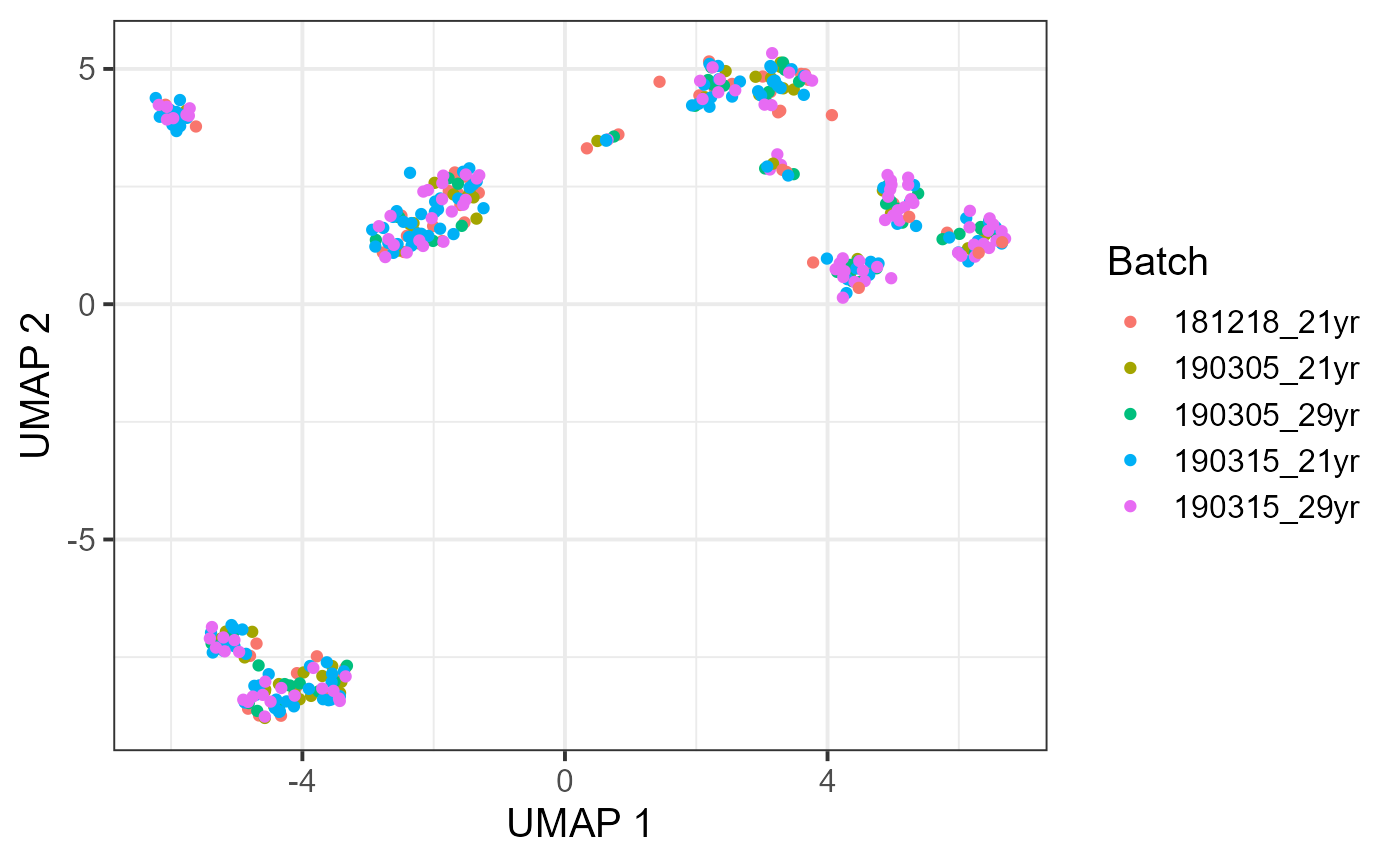
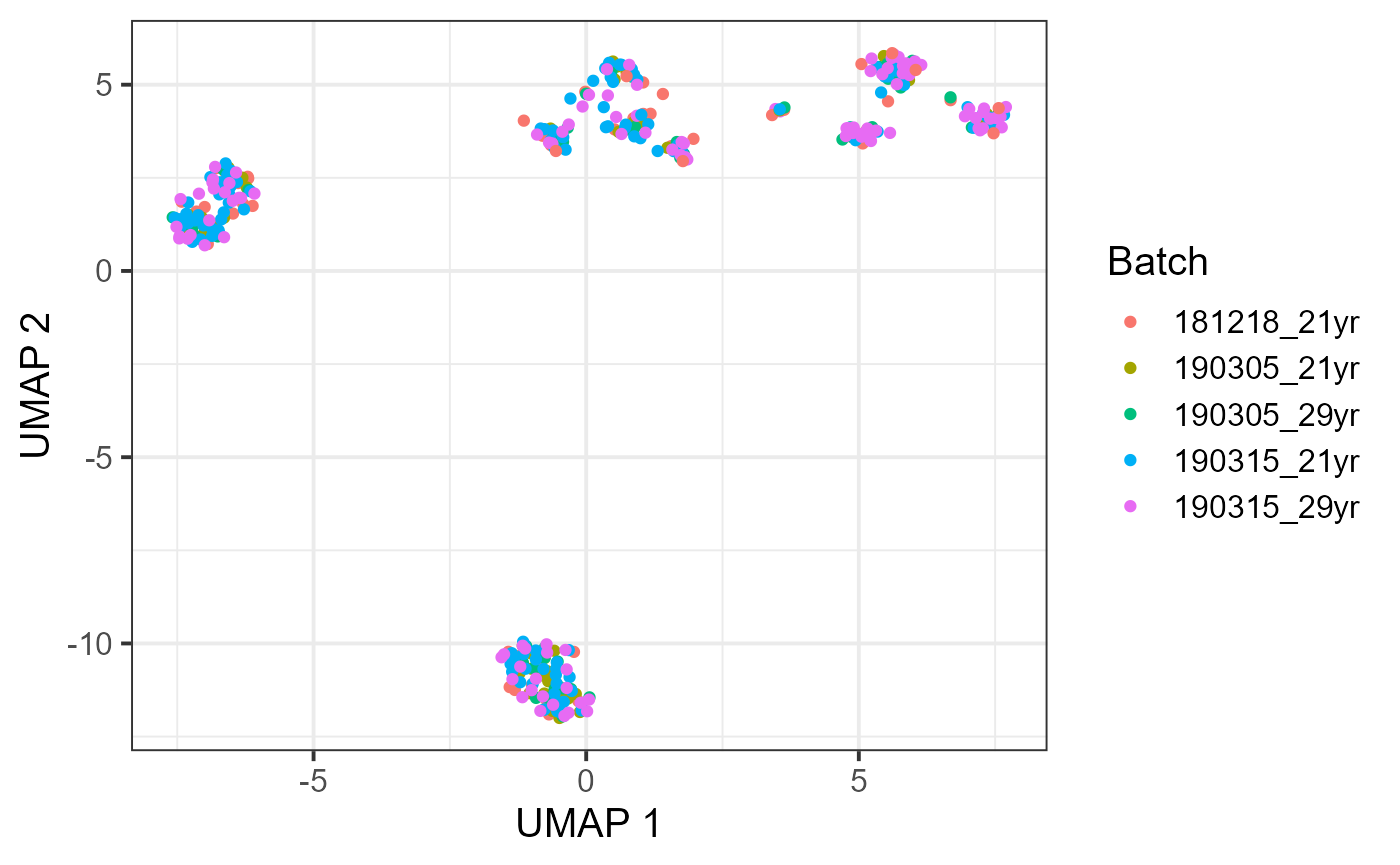
Add files via upload

diff --git a/docs/articles/BandNorm-tutorial.html b/docs/articles/BandNorm-tutorial.html
@@ -96,9 +96,7 @@
 <a href="#introduction" class="anchor"></a>Introduction</h2>
 <p>The advent of single-cell sequencing technologies in profiling 3D genome organization led to development of single-cell high-throughput chromatin conformation (scHi-C) assays. Data from these assays enhance our ability to study dynamic chromatin architecture and the impact of spatial genome interactions on cell regulation at an unprecedented resolution. At the individual cell resolution, heterogeneity driven by the stochastic nature of chromatin fiber, various nuclear processes, and unwanted variation due to sequencing depths and batch effects poses major analytical challenges for inferring single cell-level 3D genome organizations.</p>
 <p>To explicitly capture chromatin conformation features and distinguish cells based on their 3D genome organizations, we develop a simple and fast band normalization approach, <code>BandNorm</code>. <code>BandNorm</code> first removes genomic distance bias within a cell, and sequencing depth normalizes between cells. Consequently, <code>BandNorm</code> adds back a common band-dependent contact decay profile for the contact matrices across cells. The former step is achieved by dividing the interaction frequencies of each band within a cell with the cell’s band mean. The latter step is implemented by multiplying each scaled band by the average band mean across cells.</p>
-<div class="figure">
-<img src="../figures/bandnorm_intro.png" alt=""><p class="caption">The introduction for BandNorm</p>
-</div>
+<p><img src="../figures/bandnorm_intro.png"></p>
 </div>
 <div id="installation" class="section level2">
 <h2 class="hasAnchor">
@@ -274,108 +272,107 @@ chr1    2000000 chr1    4000000 2</code></pre>
 <span class="co">#&gt; Harmony 7/10</span>
 <span class="co">#&gt; Harmony 8/10</span>
 <span class="co">#&gt; Harmony 9/10</span>
-<span class="co">#&gt; Harmony 10/10</span>
-<span class="co">#&gt; Harmony converged after 10 iterations</span>
+<span class="co">#&gt; Harmony converged after 9 iterations</span>
 <span class="va">embedding</span><span class="op">[</span><span class="fl">1</span><span class="op">:</span><span class="fl">10</span>, <span class="op">]</span>
-<span class="co">#&gt;                  PC1       PC2         PC3        PC4        PC5        PC6</span>
-<span class="co">#&gt; Astro_1  -19.7082464 28.811616 -23.8949498  35.150585 -34.167979 -16.093015</span>
-<span class="co">#&gt; Astro_2   -7.3267574 46.272562   4.4755768  16.842213 -13.951679  -2.484006</span>
-<span class="co">#&gt; Astro_3   -0.3239463  8.682601  -1.2777052   4.923611  11.560447 -10.780792</span>
-<span class="co">#&gt; Astro_4   -8.7088714 26.736962 -26.4223117  11.835827  -9.729075 -15.327933</span>
-<span class="co">#&gt; Astro_5   11.5349369 17.157246 -20.4018298  14.351155 -26.069305 -25.380617</span>
-<span class="co">#&gt; Astro_6  -21.3484236 13.865803 -19.3961148  -0.153196  -3.861859   9.290331</span>
-<span class="co">#&gt; Astro_7    6.6332584 47.349138 -71.6731422 -65.113668  -8.434199  -9.947602</span>
-<span class="co">#&gt; Astro_8   -1.0163779 44.994779  -0.9627146  11.857249 -10.516306  12.779721</span>
-<span class="co">#&gt; Astro_9   -4.6578099 24.170456 -16.3786659  19.835603 -18.212833  -9.650617</span>
-<span class="co">#&gt; Astro_10 -16.8051802  4.346302 -12.5563555   3.848788 -24.587289  -8.691638</span>
-<span class="co">#&gt;                 PC7        PC8        PC9        PC10       PC11       PC12</span>
-<span class="co">#&gt; Astro_1    3.971630 -45.824813  35.491455  -4.9164623 25.6828846 -26.705808</span>
-<span class="co">#&gt; Astro_2  -35.064483 -39.457115 -16.017228  -5.7350189 19.1075119 -34.027850</span>
-<span class="co">#&gt; Astro_3  -16.555027  24.815195  -3.795087   6.0263446  2.0859114  -7.651319</span>
-<span class="co">#&gt; Astro_4   11.243274   6.373361   1.860960 -12.2390168 -2.6482597 -16.277114</span>
-<span class="co">#&gt; Astro_5   -9.038704 -12.613895  26.538324   5.9862251 92.8851315 -48.960787</span>
-<span class="co">#&gt; Astro_6   -8.845734  -4.565472   2.119168   2.4071755  8.5886062 -45.276414</span>
-<span class="co">#&gt; Astro_7   -2.601860  -5.739887  -1.728622  -5.6909678 -0.1082682 -14.329732</span>
-<span class="co">#&gt; Astro_8  -20.371635  13.336647  -3.368872  -0.7644421 26.3609992  -1.502431</span>
-<span class="co">#&gt; Astro_9  -17.140215  -4.368754  14.319022 -11.4978225 45.1122917 -86.255199</span>
-<span class="co">#&gt; Astro_10  14.826843  -4.608527  33.284809 -15.6667030 14.4296093 -31.341040</span>
-<span class="co">#&gt;                PC13         PC14        PC15       PC16        PC17        PC18</span>
-<span class="co">#&gt; Astro_1   33.267260 -25.17568128  19.4643960 -19.799950  44.0249134 -47.0121746</span>
-<span class="co">#&gt; Astro_2    0.933620   1.59852290 -13.0564159  -2.688189   6.2808227  -3.4470677</span>
-<span class="co">#&gt; Astro_3   11.216990   0.03414993  -6.0808427   9.230157   8.8755025  -0.6561208</span>
-<span class="co">#&gt; Astro_4   -8.627166   4.95422553 -22.4326127  -4.734458  -2.7430644   3.0204413</span>
-<span class="co">#&gt; Astro_5   21.635421  48.97062554  -0.3859812  19.714740   0.7697081  24.0448713</span>
-<span class="co">#&gt; Astro_6   29.148818  -1.55913277   5.3884866 -16.337634   2.7421274 -12.9429822</span>
-<span class="co">#&gt; Astro_7   19.872486 -16.58236610 -20.5080704   3.879476 -16.6457480 -17.5526323</span>
-<span class="co">#&gt; Astro_8   -3.787355 -47.98449497  -4.2642034 -14.888026  -6.4390501   3.4524723</span>
-<span class="co">#&gt; Astro_9  -31.842175 -22.70490753  28.8000539  33.451974   9.3860604 -34.5335164</span>
-<span class="co">#&gt; Astro_10  19.293212 -24.95818732 -10.8435122   1.124084  21.6804394 -25.6096973</span>
-<span class="co">#&gt;                PC19       PC20        PC21       PC22       PC23       PC24</span>
-<span class="co">#&gt; Astro_1   25.569480  20.680785 -154.874315  58.762475   5.682463 -28.422498</span>
-<span class="co">#&gt; Astro_2    7.291372   4.825205   -7.973925  -0.998890  -9.769785  34.216144</span>
-<span class="co">#&gt; Astro_3   18.965097   6.531660   10.037759  -2.129291 -16.481520  15.518390</span>
-<span class="co">#&gt; Astro_4  -15.883141  13.301597   18.833884 -15.862836 -25.588426  -6.900209</span>
-<span class="co">#&gt; Astro_5  112.596791  20.670186  103.386677   5.009961 141.164295 -92.156122</span>
-<span class="co">#&gt; Astro_6  -21.535031  -3.230735    3.795656  49.127652  -6.068639   9.357072</span>
-<span class="co">#&gt; Astro_7   -1.443606  13.896255  -25.314012  15.063107  -8.786138   2.371008</span>
-<span class="co">#&gt; Astro_8    5.967188 -19.764046  -42.337378 -27.961891 -32.674232  34.287198</span>
-<span class="co">#&gt; Astro_9  -78.827472 -46.470264    2.896760 -50.534104  64.648074  25.632585</span>
-<span class="co">#&gt; Astro_10  -5.149690  -7.271300   -2.123971 -19.580544  -2.290375   0.176057</span>
-<span class="co">#&gt;                 PC25        PC26         PC27         PC28       PC29</span>
-<span class="co">#&gt; Astro_1   12.1935111  -79.343250  18.59919747 -135.9605035  17.238159</span>
-<span class="co">#&gt; Astro_2  -11.9290241   26.261261  -0.05216965   -9.3614280   1.157036</span>
-<span class="co">#&gt; Astro_3    4.3691953   19.747991 -29.12762396   26.9947170  43.825815</span>
-<span class="co">#&gt; Astro_4    0.8225943    9.486687  23.09186494   25.2270435   8.684373</span>
-<span class="co">#&gt; Astro_5   45.3509199   60.317126 -63.58004701   84.7414570 -54.101696</span>
-<span class="co">#&gt; Astro_6    5.8265579   -2.823348  33.93480500  -13.3936443  24.188855</span>
-<span class="co">#&gt; Astro_7   34.3245959    4.499158  21.00952192    9.7421743   8.629582</span>
-<span class="co">#&gt; Astro_8   14.1380930   -2.104559 -37.84794820   24.8639094  12.425118</span>
-<span class="co">#&gt; Astro_9    9.3413389 -163.316411 -10.63670051   71.9553682 -11.118146</span>
-<span class="co">#&gt; Astro_10 -40.9998584   -4.359693  20.58503209   -0.9146004  12.996311</span>
-<span class="co">#&gt;                PC30       PC31       PC32       PC33       PC34        PC35</span>
-<span class="co">#&gt; Astro_1  -28.364969   2.630491 -60.837972  22.722263 -25.021677  56.6723521</span>
-<span class="co">#&gt; Astro_2   16.446365  -6.876204   1.341228  10.067612  14.936994  -7.5624446</span>
-<span class="co">#&gt; Astro_3   14.317662  -2.799851  -4.811118 -71.345234  -3.606042 -11.2324967</span>
-<span class="co">#&gt; Astro_4   -6.012161 -27.119416  16.934662  -6.771020  11.673170   8.4588643</span>
-<span class="co">#&gt; Astro_5   20.117123 -22.021135   1.627635   2.515616 -53.830017  62.8973717</span>
-<span class="co">#&gt; Astro_6    1.596179  -4.174825  43.462861  11.241279  -8.308725   8.6126161</span>
-<span class="co">#&gt; Astro_7  -40.262873 -42.746742  -5.571561 -46.634139  20.029894 -50.6331918</span>
-<span class="co">#&gt; Astro_8  -39.446797  19.105656   4.413553  49.473658 -24.435097  60.3847720</span>
-<span class="co">#&gt; Astro_9   -6.486986  62.271737 -23.502344   1.848401 -16.519224 -55.9514609</span>
-<span class="co">#&gt; Astro_10  -1.180698 -39.810292  41.042705 -32.305885  19.570680   0.1739368</span>
-<span class="co">#&gt;                 PC36       PC37       PC38       PC39       PC40       PC41</span>
-<span class="co">#&gt; Astro_1  -74.1424197  14.923780  -17.69893  50.095454  -6.247827  -4.736382</span>
-<span class="co">#&gt; Astro_2   13.1454219   3.984598   19.26058  12.311948  -1.830040 -11.536834</span>
-<span class="co">#&gt; Astro_3    0.6412143 -17.820441   55.59081  -5.967786 -25.415644   8.214722</span>
-<span class="co">#&gt; Astro_4   14.9913135 -28.381364  -29.57139  35.912263   4.680885 -44.278178</span>
-<span class="co">#&gt; Astro_5   27.4239359  -8.475901  -38.67301  22.964764 -43.573559  75.059885</span>
-<span class="co">#&gt; Astro_6    8.7730816 -16.719097   38.66338  39.939968  37.769685  -3.573403</span>
-<span class="co">#&gt; Astro_7    4.7352076 -10.671704   37.09157 -32.083872   3.914934  22.502308</span>
-<span class="co">#&gt; Astro_8   30.4848800  33.005323 -117.29667  12.649075 -15.670954   2.116625</span>
-<span class="co">#&gt; Astro_9   -9.5644615   5.636209   64.13661 -65.415749  22.857269 -10.927915</span>
-<span class="co">#&gt; Astro_10  12.2812031  11.442395  -23.60050 -54.243049 -67.187197 -26.279287</span>
-<span class="co">#&gt;                PC42        PC43       PC44       PC45        PC46       PC47</span>
-<span class="co">#&gt; Astro_1    5.679983  -3.6159279 -18.873884  31.027150  -0.3648084 -28.501443</span>
-<span class="co">#&gt; Astro_2   21.751747  35.1477764   1.064156 -12.516591 -26.1315392  -5.250772</span>
-<span class="co">#&gt; Astro_3    3.292416   0.7089085  32.031181  35.717836   7.0587053  50.221097</span>
-<span class="co">#&gt; Astro_4  -18.303450  30.4140343  -4.819627  12.679055  45.6234534  44.376601</span>
-<span class="co">#&gt; Astro_5    9.317038 -18.1368048   1.956061 -14.056205 -12.9302934 -51.293981</span>
-<span class="co">#&gt; Astro_6   29.758175 -33.7533853   4.429936 -52.924096  -2.2852806 -26.187753</span>
-<span class="co">#&gt; Astro_7  -35.792229 -10.4774835  -8.064994  -1.171811 -65.6235758  -5.489606</span>
-<span class="co">#&gt; Astro_8  -26.454784  50.0747148  28.412574 -55.906298  25.5403307  42.912852</span>
-<span class="co">#&gt; Astro_9   15.832520 -21.7671366 -10.613418  30.016549  31.0852055  36.249807</span>
-<span class="co">#&gt; Astro_10  20.944158  31.9308996  12.987480  13.190013 -14.8923618 -32.437163</span>
-<span class="co">#&gt;                PC48       PC49        PC50</span>
-<span class="co">#&gt; Astro_1    7.531487  31.487318 -24.3067588</span>
-<span class="co">#&gt; Astro_2   -4.489506 -25.912060  19.9586798</span>
-<span class="co">#&gt; Astro_3   74.976222 -10.861318   0.3823273</span>
-<span class="co">#&gt; Astro_4   -5.838995  35.383907  40.2005409</span>
-<span class="co">#&gt; Astro_5   -5.210229 -12.862788  -1.3742454</span>
-<span class="co">#&gt; Astro_6   13.801770 -10.776746  -9.1290176</span>
-<span class="co">#&gt; Astro_7   15.886520   1.530984  28.8335352</span>
-<span class="co">#&gt; Astro_8  -40.203908  23.215867  32.1765928</span>
-<span class="co">#&gt; Astro_9  -46.718874  42.224517 -14.4806991</span>
-<span class="co">#&gt; Astro_10 -19.004853 -60.122392 -80.1495754</span></code></pre></div>
+<span class="co">#&gt;                 PC1       PC2        PC3        PC4        PC5        PC6</span>
+<span class="co">#&gt; Astro_1   -8.969767 40.089997 -28.931637  34.992240 -39.727489 -13.834137</span>
+<span class="co">#&gt; Astro_2  -11.149834 28.972019   4.487580  12.676573  -8.142019   4.915454</span>
+<span class="co">#&gt; Astro_3    7.843229 16.650007  -5.810262   2.784114  12.278465  -9.976391</span>
+<span class="co">#&gt; Astro_4   -3.016996 30.720151 -24.922868  10.046986  -9.421887 -12.622245</span>
+<span class="co">#&gt; Astro_5    3.907945 12.487845 -20.874442  12.820043 -20.464178 -21.453012</span>
+<span class="co">#&gt; Astro_6  -21.010006 11.039105 -21.222518  -1.751442  -3.719947   7.901075</span>
+<span class="co">#&gt; Astro_7   -7.835735 43.243026 -59.021362 -50.280241  -6.679413  -6.637038</span>
+<span class="co">#&gt; Astro_8   -1.781730 38.863262   3.141645   4.435578  -1.791360  19.843036</span>
+<span class="co">#&gt; Astro_9  -12.762278 13.494298 -17.721576  14.137408  -7.130942   6.259576</span>
+<span class="co">#&gt; Astro_10 -16.575015  1.699037 -14.595547   2.226926 -24.218402  -9.564946</span>
+<span class="co">#&gt;                   PC7         PC8         PC9       PC10      PC11       PC12</span>
+<span class="co">#&gt; Astro_1  -12.83539906 -37.9608516 46.56590161   9.149491 22.310021 -31.050737</span>
+<span class="co">#&gt; Astro_2   -2.48862663  -5.2389110 10.82925483  15.683157 21.444405 -22.811844</span>
+<span class="co">#&gt; Astro_3  -32.32547287  32.7863676  8.38208879  18.650401 -1.345968 -12.274705</span>
+<span class="co">#&gt; Astro_4    7.24835712   0.4163443  4.38981009 -11.781630 -3.691702 -12.857437</span>
+<span class="co">#&gt; Astro_5   -1.61129688  -5.2075153 35.63609544  14.630270 72.023757 -30.380654</span>
+<span class="co">#&gt; Astro_6   -9.51057743  -3.5666296 -0.05624249   1.677075  7.634661 -43.094923</span>
+<span class="co">#&gt; Astro_7   -0.02719537   8.7929496 -0.39305517 -10.336975  5.465266 -19.992044</span>
+<span class="co">#&gt; Astro_8  -17.21089576   9.7657032 -2.70551041   0.980966 22.695435   4.662534</span>
+<span class="co">#&gt; Astro_9   11.06804511  29.1926017 38.12876102  10.760006 21.294910 -63.993976</span>
+<span class="co">#&gt; Astro_10  14.11059322  -3.2459321 30.89214337 -16.264277 13.130992 -29.209376</span>
+<span class="co">#&gt;                 PC13       PC14       PC15        PC16        PC17       PC18</span>
+<span class="co">#&gt; Astro_1   50.0683721 -48.679357   2.709258 -43.8063948  70.5724082 -44.324435</span>
+<span class="co">#&gt; Astro_2    0.8093972   3.316843  -8.768100   8.0312260 -17.1094020 -18.005916</span>
+<span class="co">#&gt; Astro_3   25.5384337 -20.605961 -21.217415 -12.2731665  30.9379320   1.186832</span>
+<span class="co">#&gt; Astro_4   -0.4483242   2.796980 -19.625066  -8.3572138   0.2179652   3.306631</span>
+<span class="co">#&gt; Astro_5   29.4449143  46.112032  -2.084978  15.1289936  -3.5077524  17.063767</span>
+<span class="co">#&gt; Astro_6   29.1814861  -1.878138   5.333888 -17.8333261   3.3540220 -13.154539</span>
+<span class="co">#&gt; Astro_7   15.5519509  -4.968552 -10.612055   8.2976932  15.0844900 -17.122974</span>
+<span class="co">#&gt; Astro_8   -6.1441559 -36.732788  -2.587488 -20.1836019 -11.0251059  -4.734321</span>
+<span class="co">#&gt; Astro_9  -28.5826503 -26.700640  25.310196  33.9983979 -15.4827308 -47.843133</span>
+<span class="co">#&gt; Astro_10  19.1329053 -25.506039 -11.174037  -0.5115198  21.8699584 -25.745521</span>
+<span class="co">#&gt;                PC19        PC20        PC21       PC22        PC23       PC24</span>
+<span class="co">#&gt; Astro_1   37.847480  11.2590974 -143.977204  54.722655  23.9479466 -53.114603</span>
+<span class="co">#&gt; Astro_2    5.947750   2.8062685    5.186568 -10.454239  -0.9533249  -2.999064</span>
+<span class="co">#&gt; Astro_3   28.809402  -2.7981324   20.692018  -7.021770  -1.5235340  -5.565258</span>
+<span class="co">#&gt; Astro_4  -10.016390  16.0037480   17.909384  -4.582412 -18.6778238 -19.696351</span>
+<span class="co">#&gt; Astro_5  110.167720  28.8167605   76.085319  21.069063 108.5570653 -93.498523</span>
+<span class="co">#&gt; Astro_6  -20.295016  -1.5998678    4.070317  48.281956  -5.9785940   4.588927</span>
+<span class="co">#&gt; Astro_7   -7.824522  -0.6100963  -10.068323  13.654578 -24.4345209   7.156349</span>
+<span class="co">#&gt; Astro_8   -3.581616 -17.9575650  -36.849244 -19.794655 -22.6363731  31.505191</span>
+<span class="co">#&gt; Astro_9  -95.991335 -49.3892609   -5.047858 -48.117776  28.3158106  17.645708</span>
+<span class="co">#&gt; Astro_10  -4.725806  -6.0999794   -1.133030 -20.904735  -2.6925834  -3.827886</span>
+<span class="co">#&gt;                PC25         PC26        PC27        PC28       PC29       PC30</span>
+<span class="co">#&gt; Astro_1   19.635879  -68.1173459  20.1119609 -126.715210   5.821741 -36.960491</span>
+<span class="co">#&gt; Astro_2   -3.324246    6.6714705  -3.4379881   -3.248832 -11.556256  11.862835</span>
+<span class="co">#&gt; Astro_3   10.086341   29.8555971 -27.2275315   36.313074  33.827127   8.121110</span>
+<span class="co">#&gt; Astro_4   -2.899802    9.1859898  28.7167286   20.109869   8.032473 -13.511212</span>
+<span class="co">#&gt; Astro_5   38.814285   73.5777402 -53.0826380   46.819428 -45.132075  11.356351</span>
+<span class="co">#&gt; Astro_6    5.087801   -0.7547032  32.0117319  -10.566756  22.932628  -3.280320</span>
+<span class="co">#&gt; Astro_7   36.116235   -6.4786687  19.0388520   11.253640  31.807671 -14.348020</span>
+<span class="co">#&gt; Astro_8    6.770830   -4.6231999 -30.7392429   21.994521  14.039229 -38.694441</span>
+<span class="co">#&gt; Astro_9    4.768791 -160.5037960  -0.4061018   48.534578  -2.700025 -10.337689</span>
+<span class="co">#&gt; Astro_10 -41.932996   -2.1514100  18.6983116    2.576428  12.283319  -5.608106</span>
+<span class="co">#&gt;                PC31       PC32        PC33       PC34       PC35        PC36</span>
+<span class="co">#&gt; Astro_1    5.840268 -61.972722  17.3909078 -16.306514  62.354259 -67.1113778</span>
+<span class="co">#&gt; Astro_2    3.321981 -11.017646   4.5591255   3.519164 -18.443013  -7.0293428</span>
+<span class="co">#&gt; Astro_3   -1.258084  -4.561217 -75.9530108   5.312339  -6.309850   7.3445454</span>
+<span class="co">#&gt; Astro_4  -21.823839  23.761915 -15.0647680  14.610203  10.206458  21.6801790</span>
+<span class="co">#&gt; Astro_5  -21.901600  -1.125251  -0.8814987 -40.906556  70.476032  23.1577474</span>
+<span class="co">#&gt; Astro_6   -1.177030  42.081144   9.8660816 -10.651484  12.024423   9.2331653</span>
+<span class="co">#&gt; Astro_7  -42.868212   5.145955 -29.3802662  -8.219392 -47.765647   0.5277358</span>
+<span class="co">#&gt; Astro_8   15.684163  17.341847  40.7085124 -23.613141  52.091666  35.1228656</span>
+<span class="co">#&gt; Astro_9   54.450629 -18.145862   2.8940363  -3.891396 -57.986711 -18.4838542</span>
+<span class="co">#&gt; Astro_10 -37.419240  40.549001 -33.2421674  17.635568   3.654836  13.1950112</span>
+<span class="co">#&gt;                PC37       PC38      PC39        PC40       PC41       PC42</span>
+<span class="co">#&gt; Astro_1   14.772855  -13.39803  43.95249  -5.6461724  -1.287442   9.943955</span>
+<span class="co">#&gt; Astro_2    4.982810   19.52708  10.26729   0.4722274  -3.125572  25.021891</span>
+<span class="co">#&gt; Astro_3  -16.626702   59.61133 -11.19303 -24.1944250  11.081123   7.381702</span>
+<span class="co">#&gt; Astro_4  -24.760199  -14.82105  36.63306   9.0699140 -38.437518  -6.309851</span>
+<span class="co">#&gt; Astro_5   -8.069993  -39.97963  34.85295 -40.6217331  68.614970   4.858845</span>
+<span class="co">#&gt; Astro_6  -17.279905   30.01016  44.36415  38.7987490  -4.190558  27.722072</span>
+<span class="co">#&gt; Astro_7  -17.118873   24.71473 -23.85650   0.3684970  27.069261 -39.895820</span>
+<span class="co">#&gt; Astro_8   38.899105 -101.99607  12.60670  -9.7854013  10.762517 -12.347851</span>
+<span class="co">#&gt; Astro_9    7.728531   65.07066 -57.71304  28.9283231 -17.389348  15.151434</span>
+<span class="co">#&gt; Astro_10  10.834696  -32.25103 -49.78838 -66.0562572 -27.114737  18.832764</span>
+<span class="co">#&gt;                 PC43       PC44       PC45       PC46       PC47       PC48</span>
+<span class="co">#&gt; Astro_1   -6.0805997 -11.311189  24.186428   7.051189 -26.014140   5.489425</span>
+<span class="co">#&gt; Astro_2   41.5782998  -4.207760  -9.732243 -32.405172  13.544583 -14.669421</span>
+<span class="co">#&gt; Astro_3   -0.2624106  38.360898  29.574113  13.447558  52.324093  71.623277</span>
+<span class="co">#&gt; Astro_4   17.1223036   1.538473  14.612408  44.958658  27.071162   3.040288</span>
+<span class="co">#&gt; Astro_5  -10.8234279   7.388717 -14.571108 -11.987744 -45.021274   5.448354</span>
+<span class="co">#&gt; Astro_6  -34.0874419   6.374269 -51.737890   5.542779 -22.428837  11.272716</span>
+<span class="co">#&gt; Astro_7   -2.5680533 -26.044433  14.122567 -73.070322  -4.468048  17.095225</span>
+<span class="co">#&gt; Astro_8   40.6430911  28.037896 -54.131688  18.888297  22.326421 -33.614856</span>
+<span class="co">#&gt; Astro_9  -12.1726716  -9.089355  29.353754  26.506861  40.025029 -45.932441</span>
+<span class="co">#&gt; Astro_10  31.4761753  14.978342  14.293342  -6.801287 -29.480495 -21.884060</span>
+<span class="co">#&gt;                PC49       PC50</span>
+<span class="co">#&gt; Astro_1   36.800584 -21.602143</span>
+<span class="co">#&gt; Astro_2   -8.265024  32.512026</span>
+<span class="co">#&gt; Astro_3   -6.896702   2.728311</span>
+<span class="co">#&gt; Astro_4   33.736715  26.121716</span>
+<span class="co">#&gt; Astro_5  -15.792139   1.535368</span>
+<span class="co">#&gt; Astro_6   -3.562260  -7.017650</span>
+<span class="co">#&gt; Astro_7   -3.337298  36.045073</span>
+<span class="co">#&gt; Astro_8   16.912190  17.928788</span>
+<span class="co">#&gt; Astro_9   38.878708 -11.751123</span>
+<span class="co">#&gt; Astro_10 -53.479679 -78.411554</span></code></pre></div>
 <p>Finally, using the embedding, you can use UMAP or tSNE to get a projection of all the cells on the 2D plane. If you have the cell-type information or batch information, it is possible to color them on the plot.</p>
 <div class="sourceCode" id="cb10"><pre class="downlit sourceCode r">
 <code class="sourceCode R"><span class="fu"><a href="../reference/plot_embedding.html">plot_embedding</a></span><span class="op">(</span><span class="va">embedding</span>, <span class="st">"UMAP"</span>, cell_info <span class="op">=</span> <span class="va">cell_type</span>, label <span class="op">=</span> <span class="st">"Cell Type"</span><span class="op">)</span></code></pre></div>

diff --git a/docs/articles/scGAD-tutorial.html b/docs/articles/scGAD-tutorial.html
@@ -95,9 +95,7 @@
 <h2 class="hasAnchor">
 <a href="#introduction" class="anchor"></a>Introduction</h2>
 <p>Recent advancements in single-cell technologies enabled the profiling of 3D genome structures in a single-cell fashion. Quantitative tools are needed to fully leverage the unprecedented resolution of single-cell high-throughput chromatin conformation (scHi-C) data and integrate it with other single-cell data modalities. We developed single-cell gene-body associating domain (scGAD) scores available in R package to explore scHi-C data in units of genes. Proper normalization is investigated to eliminate technical biases.</p>
-<div class="figure">
-<img src="../figures/scgadMethod.jpg" alt=""><p class="caption">The introduction for scGAD</p>
-</div>
+<p><img src="../figures/scgadMethod.jpg"></p>
 </div>
 <div id="installation" class="section level2">
 <h2 class="hasAnchor">
@@ -239,20 +237,20 @@ chr1    20000 chr1    40000 2</code></pre>
 <span class="co">#&gt; Warning: The default method for RunUMAP has changed from calling Python UMAP via reticulate to the R-native UWOT using the cosine metric</span>
 <span class="co">#&gt; To use Python UMAP via reticulate, set umap.method to 'umap-learn' and metric to 'correlation'</span>
 <span class="co">#&gt; This message will be shown once per session</span>
-<span class="co">#&gt; 19:02:57 UMAP embedding parameters a = 0.9922 b = 1.112</span>
-<span class="co">#&gt; 19:02:57 Read 1426 rows and found 5 numeric columns</span>
-<span class="co">#&gt; 19:02:57 Using Annoy for neighbor search, n_neighbors = 30</span>
-<span class="co">#&gt; 19:02:57 Building Annoy index with metric = cosine, n_trees = 50</span>
+<span class="co">#&gt; 19:09:40 UMAP embedding parameters a = 0.9922 b = 1.112</span>
+<span class="co">#&gt; 19:09:40 Read 1426 rows and found 5 numeric columns</span>
+<span class="co">#&gt; 19:09:40 Using Annoy for neighbor search, n_neighbors = 30</span>
+<span class="co">#&gt; 19:09:40 Building Annoy index with metric = cosine, n_trees = 50</span>
 <span class="co">#&gt; 0%   10   20   30   40   50   60   70   80   90   100%</span>
 <span class="co">#&gt; [----|----|----|----|----|----|----|----|----|----|</span>
 <span class="co">#&gt; **************************************************|</span>
-<span class="co">#&gt; 19:02:57 Writing NN index file to temp file C:\Users\solei\AppData\Local\Temp\RtmpcVH4qX\file36081bb04829</span>
-<span class="co">#&gt; 19:02:57 Searching Annoy index using 1 thread, search_k = 3000</span>
-<span class="co">#&gt; 19:02:57 Annoy recall = 100%</span>
-<span class="co">#&gt; 19:02:58 Commencing smooth kNN distance calibration using 1 thread</span>
-<span class="co">#&gt; 19:02:58 Initializing from normalized Laplacian + noise</span>
-<span class="co">#&gt; 19:02:58 Commencing optimization for 500 epochs, with 55294 positive edges</span>
-<span class="co">#&gt; 19:03:01 Optimization finished</span>
+<span class="co">#&gt; 19:09:40 Writing NN index file to temp file C:\Users\solei\AppData\Local\Temp\RtmpWaFaOM\file2fac550e2f99</span>
+<span class="co">#&gt; 19:09:40 Searching Annoy index using 1 thread, search_k = 3000</span>
+<span class="co">#&gt; 19:09:40 Annoy recall = 100%</span>
+<span class="co">#&gt; 19:09:40 Commencing smooth kNN distance calibration using 1 thread</span>
+<span class="co">#&gt; 19:09:41 Initializing from normalized Laplacian + noise</span>
+<span class="co">#&gt; 19:09:41 Commencing optimization for 500 epochs, with 55294 positive edges</span>
+<span class="co">#&gt; 19:09:44 Optimization finished</span>
 
 <span class="va">p_celltype</span> <span class="op">&lt;-</span> <span class="fu"><a href="https://satijalab.org/seurat/reference/DimPlot.html">DimPlot</a></span><span class="op">(</span><span class="va">combinedAssay</span>, reduction <span class="op">=</span> <span class="st">"umap"</span>, label <span class="op">=</span> <span class="cn">TRUE</span>, repel <span class="op">=</span> <span class="cn">TRUE</span>, pt.size <span class="op">=</span> <span class="fl">1.3</span>, shape.by <span class="op">=</span> <span class="st">"method"</span>, label.size <span class="op">=</span> <span class="fl">6</span><span class="op">)</span> <span class="op">+</span>
 <span class="fu"><a href="https://ggplot2.tidyverse.org/reference/labs.html">xlab</a></span><span class="op">(</span><span class="st">"UMAP 1"</span><span class="op">)</span> <span class="op">+</span>
